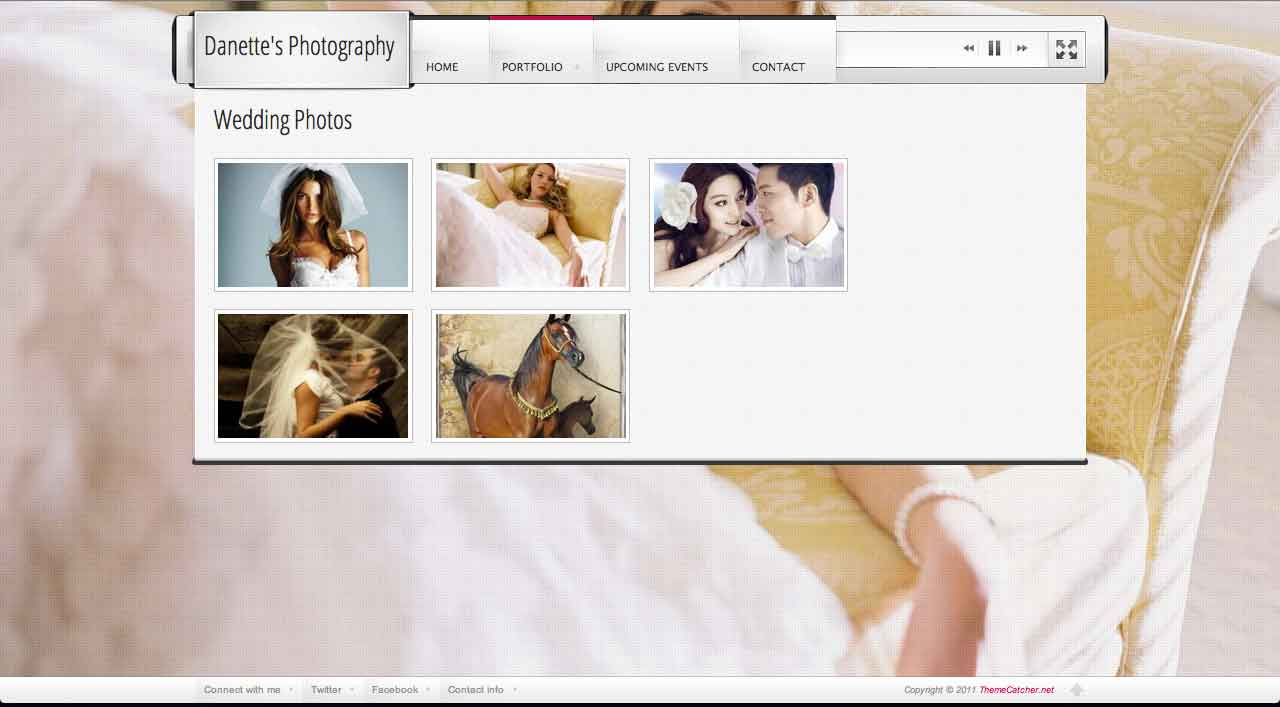
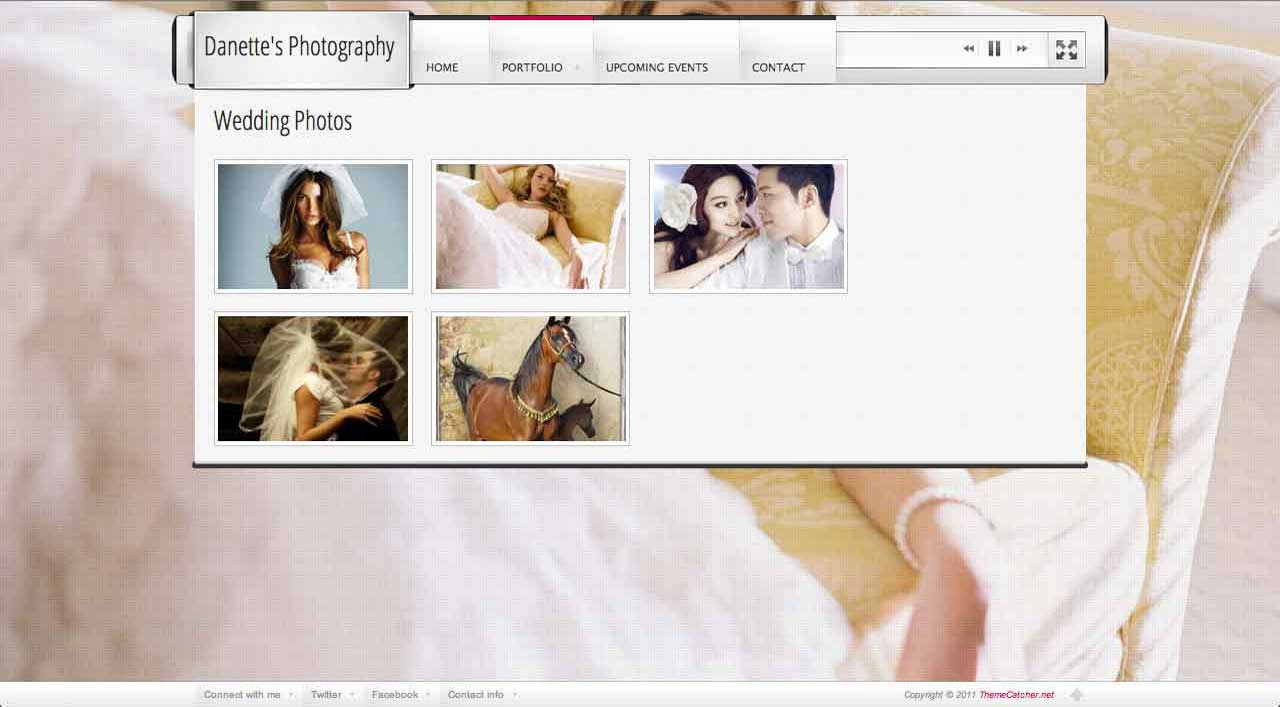
Fix photos on homepage and portfolio

diff --git a/app/assets/stylesheets/custom.css.scss b/app/assets/stylesheets/custom.css.scss
@@ -14,6 +14,7 @@ $orange:#F15A23;
 @import url(http://fonts.googleapis.com/css?family=Merienda+One);
 @import url(http://fonts.googleapis.com/css?family=Dr+Sugiyama);
 @import url(http://fonts.googleapis.com/css?family=Source+Sans+Pro);
+@import url(http://fonts.googleapis.com/css?family=Playball);
 
 /***********************************************
 * Defaults
@@ -170,14 +171,22 @@ p{
 	height:80px;
 	left:0;
 	color:white;
-	margin:50px 0 50px 0;
+	margin:10px 0 50px 0;
+}
+
+.rotate {
+  -webkit-transform: rotate(-6deg);  /* Safari 3.1+, Chrome */
+     -moz-transform: rotate(-6deg);  /* Firefox 3.5-15 */
+      -ms-transform: rotate(-6deg);  /* IE9+ */
+       -o-transform: rotate(-6deg);  /* Opera 10.5-12.00 */
+          transform: rotate(-6deg);  /* Firefox 16+, Opera 12.50+ */
 }
 
 .spacer{
 	@extend .span4;
 	margin:0 auto;
 	margin-top:60px;
-	margin-bottom:60px;
+	margin-bottom:10px;
 }
 
 .arrow-down {
@@ -261,13 +270,26 @@ p{
 /***********************************************
 * Images
 ***********************************************/
-
+.thumbnails li{
+	line-height:0;
+	text-align:center;
+	position:relative;
+	p{
+		margin-top:8px;
+		margin-bottom:-5px;
+		color:$grayLight;
+		font-size:1em;
+		height:40px;
+		vertical-align:bottom;
+	}
+}
 .image{
 	background: eggshell;
 	border: 1px solid white;
-	padding: 4px;
-	outline: 1px solid #EAEAEA;
+	padding: 8px 8px 0 8px;
+	outline: 1px solid #ccc;
 	img{
+		border:1px solid #D8D8D8;
 		background:url('loader.gif') no-repeat center center;
 		width:100%;
 	}
